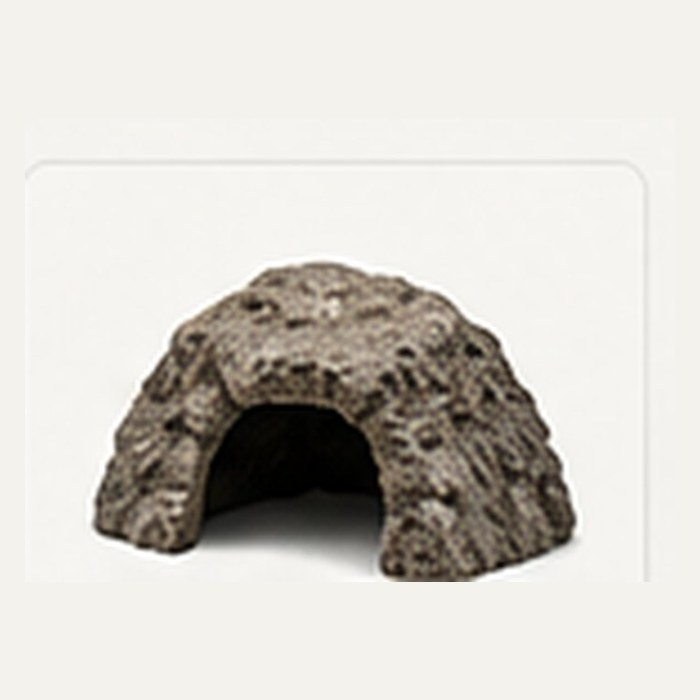
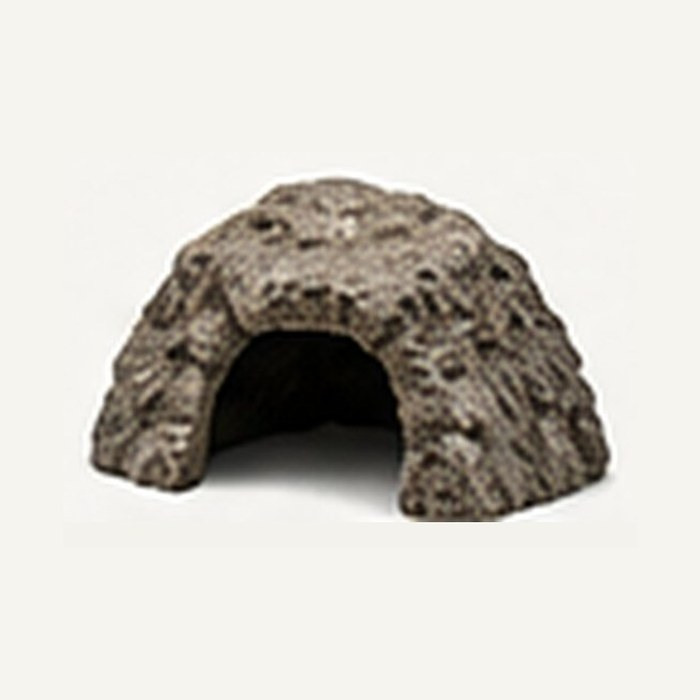
Add files via upload

Changed region(s): [[0.12, 0.24, 0.87, 0.84]]

diff --git a/assets/css/style.css b/assets/css/style.css
@@ -1,1 +1,1 @@
-:root{--bg:#07110d;--panel:#0d1c15;--panel2:#12251b;--cream:#f4f0e7;--muted:#a9b8ad;--green:#8bd44b;--green2:#3c9f45;--gold:#d7aa55;--line:rgba(255,255,255,.1);--shadow:0 20px 60px rgba(0,0,0,.35);--radius:22px}*{box-sizing:border-box}html{scroll-behavior:smooth}body{margin:0;background:#f5f4ef;color:#162019;font-family:Inter,ui-sans-serif,system-ui,-apple-system,Segoe UI,Roboto,Arial,sans-serif}.topbar{background:#06100b;color:#dfe9e1;padding:9px 5%;font-size:12px;display:flex;justify-content:center;gap:24px;letter-spacing:.02em}.topbar span{opacity:.9}.topbar b{color:#a6dc67}.header{position:sticky;top:0;z-index:50;background:rgba(5,15,10,.96);backdrop-filter:blur(12px);color:#fff;border-bottom:1px solid rgba(255,255,255,.08)}.header-main{display:grid;grid-template-columns:210px 1fr auto;gap:28px;align-items:center;padding:18px 5%}.logo{display:flex;align-items:center;gap:12px;color:white;text-decoration:none;font-weight:900;letter-spacing:.12em}.logo img{width:54px;height:54px;border-radius:50%;object-fit:cover}.logo strong{font-size:22px}.logo small{display:block;font-size:8px;letter-spacing:.16em;color:#9bd362;margin-top:2px}.search{max-width:650px;margin:auto;width:100%;position:relative}.search input{width:100%;background:#0c1812;border:1px solid #294033;color:#fff;padding:13px 44px 13px 18px;border-radius:999px;outline:none}.search button{position:absolute;right:6px;top:5px;border:0;background:transparent;color:#d9e7dc;font-size:18px;cursor:pointer}.actions{display:flex;gap:8px}.icon-btn{width:42px;height:42px;border:1px solid #294033;background:#0c1812;color:#fff;border-radius:50%;cursor:pointer}.nav{display:flex;justify-content:center;gap:28px;padding:0 5% 15px}.nav a{color:#dce7df;text-decoration:none;font-size:13px;font-weight:700}.nav a:hover{color:var(--green)}.hero{min-height:650px;background:#07120c;color:white;position:relative;overflow:hidden}.hero:before{content:"";position:absolute;inset:0;background:linear-gradient(90deg,rgba(4,14,8,.96) 0%,rgba(4,14,8,.75) 38%,rgba(4,14,8,.25) 65%,rgba(4,14,8,.72)),url('../images/hero/hero-habitat.jpg') center/cover no-repeat}.hero-content{position:relative;z-index:1;max-width:1250px;margin:auto;padding:125px 5% 90px}.eyebrow{color:#b8e86c;text-transform:uppercase;letter-spacing:.18em;font-weight:800;font-size:12px}.hero h1{font-family:Georgia,serif;font-size:clamp(48px,7vw,88px);line-height:.96;max-width:780px;margin:18px 0}.hero h1 em{color:#9ddd55;font-style:normal}.hero p{max-width:650px;color:#d5ded7;font-size:18px;line-height:1.7}.btn{display:inline-flex;align-items:center;gap:10px;padding:14px 22px;border-radius:999px;text-decoration:none;font-weight:800;border:1px solid transparent;cursor:pointer}.btn-primary{background:linear-gradient(135deg,#a9e05b,#4ca54b);color:#061007}.btn-ghost{border-color:rgba(255,255,255,.25);color:white;background:rgba(255,255,255,.05)}.hero-actions{display:flex;gap:12px;margin-top:28px}.trust{position:relative;z-index:1;max-width:1250px;margin:-40px auto 0;padding:0 5%;display:grid;grid-template-columns:repeat(4,1fr);gap:12px}.trust-card{background:rgba(10,26,17,.92);border:1px solid rgba(255,255,255,.12);color:#fff;padding:18px;border-radius:18px;box-shadow:var(--shadow)}.trust-card b{display:block;font-size:13px}.trust-card span{color:#a9b8ad;font-size:11px}.section{padding:90px 5%;max-width:1400px;margin:auto}.section-head{display:flex;align-items:end;justify-content:space-between;gap:20px;margin-bottom:30px}.section h2{font-family:Georgia,serif;font-size:42px;margin:0}.section-head p{max-width:560px;color:#65736a;line-height:1.6}.category-grid{display:grid;grid-template-columns:repeat(4,1fr);gap:16px}.category{position:relative;aspect-ratio:1/1;min-height:0;border-radius:22px;overflow:hidden;background:#0c1a12;color:white;box-shadow:var(--shadow)}.category img{width:100%;height:100%;object-fit:cover;object-position:center;transition:.4s;display:block}.category:after{content:"";position:absolute;inset:0;background:linear-gradient(transparent 30%,rgba(0,0,0,.85))}.category:hover img{transform:scale(1.05)}.category-info{position:absolute;z-index:2;bottom:20px;left:20px}.category-info h3{margin:0 0 5px;font-size:18px}.category-info span{font-size:12px;color:#c9d6cc}.split-banner{max-width:1400px;margin:0 auto;padding:0 5%}.banner{min-height:360px;border-radius:28px;overflow:hidden;position:relative;background:url('../images/hero/chameleon-habitat.jpg') center/cover}.banner:after{content:"";position:absolute;inset:0;background:linear-gradient(90deg,rgba(5,16,10,.92),rgba(5,16,10,.35),rgba(5,16,10,.15))}.banner-content{position:relative;z-index:2;color:white;max-width:620px;padding:70px}.banner h2{font-family:Georgia,serif;font-size:48px;margin:12px 0}.products{display:grid;grid-template-columns:repeat(4,1fr);gap:18px}.product{background:#fff;border:1px solid #e4e7e1;border-radius:20px;overflow:hidden;box-shadow:0 10px 30px rgba(19,37,26,.06);transition:.25s;position:relative}.product:hover{transform:translateY(-5px);box-shadow:0 18px 45px rgba(19,37,26,.12)}.product-media{aspect-ratio:1/1;height:auto;background:#f4f2ec;position:relative;padding:10px}.product-media img{width:100%;height:100%;object-fit:contain;display:block;border-radius:12px}.badge{position:absolute;top:14px;left:14px;background:#0a2516;color:#c8f38d;padding:7px 10px;border-radius:999px;font-size:10px;font-weight:900}.heart{position:absolute;right:14px;top:14px;width:36px;height:36px;border:0;border-radius:50%;background:rgba(255,255,255,.9);cursor:pointer}.product-info{padding:18px}.product-info .category-label{color:#6f7e74;font-size:11px;text-transform:uppercase;letter-spacing:.12em;font-weight:800}.product h3{font-size:17px;margin:7px 0}.rating{font-size:12px;color:#c79537}.price{font-size:20px;font-weight:900;margin-top:10px}.product-actions{display:flex;gap:8px;margin-top:14px}.add{flex:1;border:0;background:#103a21;color:#fff;padding:11px;border-radius:12px;font-weight:800;cursor:pointer}.learn{border:1px solid #d8ded8;background:white;border-radius:12px;padding:11px;cursor:pointer}.about{background:#09150e;color:white;max-width:none}.about-inner{max-width:1400px;margin:auto;padding:90px 5%;display:grid;grid-template-columns:1fr 1fr;gap:70px;align-items:center}.about h2{font-family:Georgia,serif;font-size:52px}.about p{color:#b5c2b9;line-height:1.8}.values{display:grid;grid-template-columns:repeat(3,1fr);gap:12px}.value{padding:20px;border:1px solid #243d2d;background:#0d2115;border-radius:18px}.value b{display:block;margin-bottom:7px}.value span{font-size:12px;color:#a9b8ad;line-height:1.6}.newsletter{background:#dcefc5;padding:55px 5%;text-align:center}.newsletter h2{font-family:Georgia,serif;font-size:38px;margin:0 0 10px}.newsletter p{color:#506253}.newsletter form{max-width:560px;margin:22px auto;display:flex;background:white;padding:5px;border-radius:999px;border:1px solid #cbd9c3}.newsletter input{flex:1;border:0;outline:0;padding:13px 16px;border-radius:999px}.newsletter button{border:0;background:#173b22;color:white;padding:12px 20px;border-radius:999px;font-weight:800}.footer{background:#050c08;color:#d8e2db;padding:55px 5% 25px}.footer-grid{max-width:1400px;margin:auto;display:grid;grid-template-columns:2fr repeat(3,1fr);gap:45px}.footer h3{margin-top:0}.footer a{display:block;color:#9eaea3;text-decoration:none;font-size:13px;margin:9px 0}.footer a:hover{color:#a9df62}.footer-bottom{max-width:1400px;margin:40px auto 0;padding-top:20px;border-top:1px solid #1e3024;color:#78877e;font-size:11px;display:flex;justify-content:space-between}.drawer{position:fixed;right:-430px;top:0;width:min(420px,100%);height:100vh;background:#fff;z-index:100;box-shadow:-20px 0 70px rgba(0,0,0,.3);transition:.3s;display:flex;flex-direction:column}.drawer.open{right:0}.drawer-head{padding:22px;border-bottom:1px solid #e5e8e4;display:flex;justify-content:space-between}.drawer-body{padding:20px;overflow:auto;flex:1}.cart-item{display:grid;grid-template-columns:75px 1fr auto;gap:12px;align-items:center;padding:14px 0;border-bottom:1px solid #e8ebe7}.cart-item img{width:75px;height:75px;object-fit:contain;border-radius:12px;background:#eef1eb}.cart-item h4{margin:0;font-size:13px}.cart-item p{margin:6px 0 0;color:#647268;font-size:12px}.remove{border:0;background:none;color:#a44;cursor:pointer}.drawer-foot{padding:20px;border-top:1px solid #e5e8e4}.total{display:flex;justify-content:space-between;font-size:18px;font-weight:900;margin-bottom:15px}.full{width:100%;justify-content:center}.modal{position:fixed;inset:0;background:rgba(0,0,0,.7);display:none;align-items:center;justify-content:center;z-index:110;padding:20px}.modal.show{display:flex}.modal-card{max-width:920px;width:100%;background:#fff;border-radius:25px;overflow:hidden;display:grid;grid-template-columns:1fr 1fr;position:relative}.modal-card img{width:100%;height:100%;min-height:460px;object-fit:contain;background:#f4f2ec;padding:18px}.modal-info{padding:40px}.modal-info h2{font-family:Georgia,serif;font-size:38px;margin:8px 0}.close{position:absolute;right:15px;top:15px;border:0;width:40px;height:40px;border-radius:50%;background:white;cursor:pointer;font-size:20px}.mobile-toggle{display:none}.empty{text-align:center;color:#748178;padding:40px}.toast{position:fixed;bottom:25px;left:50%;transform:translateX(-50%) translateY(30px);background:#0c2114;color:#fff;padding:13px 18px;border-radius:999px;opacity:0;pointer-events:none;transition:.3s;z-index:200}.toast.show{opacity:1;transform:translateX(-50%) translateY(0)}@media(max-width:1000px){.header-main{grid-template-columns:1fr auto}.search{grid-column:1/-1;grid-row:2}.nav{display:none}.mobile-toggle{display:block}.category-grid,.products{grid-template-columns:repeat(2,1fr)}.trust{grid-template-columns:repeat(2,1fr)}.about-inner{grid-template-columns:1fr}.footer-grid{grid-template-columns:1fr 1fr}}@media(max-width:620px){.topbar{gap:8px;font-size:10px;overflow:hidden;white-space:nowrap}.header-main{padding:13px 4%}.logo strong{font-size:17px}.logo img{width:44px;height:44px}.actions .icon-btn:nth-child(2){display:none}.hero{min-height:600px}.hero-content{padding:90px 5% 100px}.hero h1{font-size:50px}.hero p{font-size:15px}.hero-actions{flex-direction:column;align-items:flex-start}.trust{grid-template-columns:1fr;margin-top:-25px}.section{padding:65px 5%}.section h2{font-size:34px}.section-head{display:block}.category-grid,.products{grid-template-columns:1fr}.category{min-height:310px}.banner-content{padding:45px 28px}.banner h2{font-size:38px}.about h2{font-size:40px}.values{grid-template-columns:1fr}.footer-grid{grid-template-columns:1fr}.footer-bottom{display:block}.footer-bottom span{display:block;margin-top:8px}.modal-card{grid-template-columns:1fr}.modal-card img{min-height:280px;max-height:350px}.modal-info{padding:25px}}
+:root{--bg:#07110d;--panel:#0d1c15;--panel2:#12251b;--cream:#f4f0e7;--muted:#a9b8ad;--green:#8bd44b;--green2:#3c9f45;--gold:#d7aa55;--line:rgba(255,255,255,.1);--shadow:0 20px 60px rgba(0,0,0,.35);--radius:22px}*{box-sizing:border-box}html{scroll-behavior:smooth}body{margin:0;background:#f5f4ef;color:#162019;font-family:Inter,ui-sans-serif,system-ui,-apple-system,Segoe UI,Roboto,Arial,sans-serif}.topbar{background:#06100b;color:#dfe9e1;padding:9px 5%;font-size:12px;display:flex;justify-content:center;gap:24px;letter-spacing:.02em}.topbar span{opacity:.9}.topbar b{color:#a6dc67}.header{position:sticky;top:0;z-index:50;background:rgba(5,15,10,.96);backdrop-filter:blur(12px);color:#fff;border-bottom:1px solid rgba(255,255,255,.08)}.header-main{display:grid;grid-template-columns:210px 1fr auto;gap:28px;align-items:center;padding:18px 5%}.logo{display:flex;align-items:center;gap:12px;color:white;text-decoration:none;font-weight:900;letter-spacing:.12em}.logo img{width:54px;height:54px;border-radius:50%;object-fit:cover}.logo strong{font-size:22px}.logo small{display:block;font-size:8px;letter-spacing:.16em;color:#9bd362;margin-top:2px}.search{max-width:650px;margin:auto;width:100%;position:relative}.search input{width:100%;background:#0c1812;border:1px solid #294033;color:#fff;padding:13px 44px 13px 18px;border-radius:999px;outline:none}.search button{position:absolute;right:6px;top:5px;border:0;background:transparent;color:#d9e7dc;font-size:18px;cursor:pointer}.actions{display:flex;gap:8px}.icon-btn{width:42px;height:42px;border:1px solid #294033;background:#0c1812;color:#fff;border-radius:50%;cursor:pointer}.nav{display:flex;justify-content:center;gap:28px;padding:0 5% 15px}.nav a{color:#dce7df;text-decoration:none;font-size:13px;font-weight:700}.nav a:hover{color:var(--green)}.hero{min-height:650px;background:#07120c;color:white;position:relative;overflow:hidden}.hero:before{content:"";position:absolute;inset:0;background:linear-gradient(90deg,rgba(4,14,8,.96) 0%,rgba(4,14,8,.75) 38%,rgba(4,14,8,.25) 65%,rgba(4,14,8,.72)),url('../images/hero/hero-habitat.jpg') center/cover no-repeat}.hero-content{position:relative;z-index:1;max-width:1250px;margin:auto;padding:125px 5% 90px}.eyebrow{color:#b8e86c;text-transform:uppercase;letter-spacing:.18em;font-weight:800;font-size:12px}.hero h1{font-family:Georgia,serif;font-size:clamp(48px,7vw,88px);line-height:.96;max-width:780px;margin:18px 0}.hero h1 em{color:#9ddd55;font-style:normal}.hero p{max-width:650px;color:#d5ded7;font-size:18px;line-height:1.7}.btn{display:inline-flex;align-items:center;gap:10px;padding:14px 22px;border-radius:999px;text-decoration:none;font-weight:800;border:1px solid transparent;cursor:pointer}.btn-primary{background:linear-gradient(135deg,#a9e05b,#4ca54b);color:#061007}.btn-ghost{border-color:rgba(255,255,255,.25);color:white;background:rgba(255,255,255,.05)}.hero-actions{display:flex;gap:12px;margin-top:28px}.trust{position:relative;z-index:1;max-width:1250px;margin:-40px auto 0;padding:0 5%;display:grid;grid-template-columns:repeat(4,1fr);gap:12px}.trust-card{background:rgba(10,26,17,.92);border:1px solid rgba(255,255,255,.12);color:#fff;padding:18px;border-radius:18px;box-shadow:var(--shadow)}.trust-card b{display:block;font-size:13px}.trust-card span{color:#a9b8ad;font-size:11px}.section{padding:90px 5%;max-width:1400px;margin:auto}.section-head{display:flex;align-items:end;justify-content:space-between;gap:20px;margin-bottom:30px}.section h2{font-family:Georgia,serif;font-size:42px;margin:0}.section-head p{max-width:560px;color:#65736a;line-height:1.6}.category-grid{display:grid;grid-template-columns:repeat(4,1fr);gap:16px}.category{position:relative;aspect-ratio:1/1;min-height:0;border-radius:22px;overflow:hidden;background:#0c1a12;color:white;box-shadow:var(--shadow)}.category img{width:100%;height:100%;object-fit:cover;object-position:center;transition:.4s;display:block}.category:after{content:"";position:absolute;inset:0;background:linear-gradient(transparent 30%,rgba(0,0,0,.85))}.category:hover img{transform:scale(1.05)}.category-info{position:absolute;z-index:2;bottom:20px;left:20px}.category-info h3{margin:0 0 5px;font-size:18px}.category-info span{font-size:12px;color:#c9d6cc}.split-banner{max-width:1400px;margin:0 auto;padding:0 5%}.banner{min-height:360px;border-radius:28px;overflow:hidden;position:relative;background:url('../images/hero/chameleon-habitat.jpg') center/cover}.banner:after{content:"";position:absolute;inset:0;background:linear-gradient(90deg,rgba(5,16,10,.92),rgba(5,16,10,.35),rgba(5,16,10,.15))}.banner-content{position:relative;z-index:2;color:white;max-width:620px;padding:70px}.banner h2{font-family:Georgia,serif;font-size:48px;margin:12px 0}.products{display:grid;grid-template-columns:repeat(4,1fr);gap:18px}.product{background:#fff;border:1px solid #e4e7e1;border-radius:20px;overflow:hidden;box-shadow:0 10px 30px rgba(19,37,26,.06);transition:.25s;position:relative}.product:hover{transform:translateY(-5px);box-shadow:0 18px 45px rgba(19,37,26,.12)}.product-media{aspect-ratio:1/1;height:auto;background:#f4f2ec;position:relative;padding:14px;display:flex;align-items:center;justify-content:center;overflow:hidden}.product-media img{width:100%;height:100%;object-fit:contain;object-position:center;display:block;border-radius:12px}.badge{position:absolute;top:14px;left:14px;background:#0a2516;color:#c8f38d;padding:7px 10px;border-radius:999px;font-size:10px;font-weight:900}.heart{position:absolute;right:14px;top:14px;width:36px;height:36px;border:0;border-radius:50%;background:rgba(255,255,255,.9);cursor:pointer}.product-info{padding:18px}.product-info .category-label{color:#6f7e74;font-size:11px;text-transform:uppercase;letter-spacing:.12em;font-weight:800}.product h3{font-size:17px;margin:7px 0}.rating{font-size:12px;color:#c79537}.price{font-size:20px;font-weight:900;margin-top:10px}.product-actions{display:flex;gap:8px;margin-top:14px}.add{flex:1;border:0;background:#103a21;color:#fff;padding:11px;border-radius:12px;font-weight:800;cursor:pointer}.learn{border:1px solid #d8ded8;background:white;border-radius:12px;padding:11px;cursor:pointer}.about{background:#09150e;color:white;max-width:none}.about-inner{max-width:1400px;margin:auto;padding:90px 5%;display:grid;grid-template-columns:1fr 1fr;gap:70px;align-items:center}.about h2{font-family:Georgia,serif;font-size:52px}.about p{color:#b5c2b9;line-height:1.8}.values{display:grid;grid-template-columns:repeat(3,1fr);gap:12px}.value{padding:20px;border:1px solid #243d2d;background:#0d2115;border-radius:18px}.value b{display:block;margin-bottom:7px}.value span{font-size:12px;color:#a9b8ad;line-height:1.6}.newsletter{background:#dcefc5;padding:55px 5%;text-align:center}.newsletter h2{font-family:Georgia,serif;font-size:38px;margin:0 0 10px}.newsletter p{color:#506253}.newsletter form{max-width:560px;margin:22px auto;display:flex;background:white;padding:5px;border-radius:999px;border:1px solid #cbd9c3}.newsletter input{flex:1;border:0;outline:0;padding:13px 16px;border-radius:999px}.newsletter button{border:0;background:#173b22;color:white;padding:12px 20px;border-radius:999px;font-weight:800}.footer{background:#050c08;color:#d8e2db;padding:55px 5% 25px}.footer-grid{max-width:1400px;margin:auto;display:grid;grid-template-columns:2fr repeat(3,1fr);gap:45px}.footer h3{margin-top:0}.footer a{display:block;color:#9eaea3;text-decoration:none;font-size:13px;margin:9px 0}.footer a:hover{color:#a9df62}.footer-bottom{max-width:1400px;margin:40px auto 0;padding-top:20px;border-top:1px solid #1e3024;color:#78877e;font-size:11px;display:flex;justify-content:space-between}.drawer{position:fixed;right:-430px;top:0;width:min(420px,100%);height:100vh;background:#fff;z-index:100;box-shadow:-20px 0 70px rgba(0,0,0,.3);transition:.3s;display:flex;flex-direction:column}.drawer.open{right:0}.drawer-head{padding:22px;border-bottom:1px solid #e5e8e4;display:flex;justify-content:space-between}.drawer-body{padding:20px;overflow:auto;flex:1}.cart-item{display:grid;grid-template-columns:75px 1fr auto;gap:12px;align-items:center;padding:14px 0;border-bottom:1px solid #e8ebe7}.cart-item img{width:75px;height:75px;object-fit:contain;border-radius:12px;background:#eef1eb}.cart-item h4{margin:0;font-size:13px}.cart-item p{margin:6px 0 0;color:#647268;font-size:12px}.remove{border:0;background:none;color:#a44;cursor:pointer}.drawer-foot{padding:20px;border-top:1px solid #e5e8e4}.total{display:flex;justify-content:space-between;font-size:18px;font-weight:900;margin-bottom:15px}.full{width:100%;justify-content:center}.modal{position:fixed;inset:0;background:rgba(0,0,0,.7);display:none;align-items:center;justify-content:center;z-index:110;padding:20px}.modal.show{display:flex}.modal-card{max-width:920px;width:100%;background:#fff;border-radius:25px;overflow:hidden;display:grid;grid-template-columns:1fr 1fr;position:relative}.modal-card img{width:100%;height:100%;min-height:460px;object-fit:contain;background:#f4f2ec;padding:18px}.modal-info{padding:40px}.modal-info h2{font-family:Georgia,serif;font-size:38px;margin:8px 0}.close{position:absolute;right:15px;top:15px;border:0;width:40px;height:40px;border-radius:50%;background:white;cursor:pointer;font-size:20px}.mobile-toggle{display:none}.empty{text-align:center;color:#748178;padding:40px}.toast{position:fixed;bottom:25px;left:50%;transform:translateX(-50%) translateY(30px);background:#0c2114;color:#fff;padding:13px 18px;border-radius:999px;opacity:0;pointer-events:none;transition:.3s;z-index:200}.toast.show{opacity:1;transform:translateX(-50%) translateY(0)}@media(max-width:1000px){.header-main{grid-template-columns:1fr auto}.search{grid-column:1/-1;grid-row:2}.nav{display:none}.mobile-toggle{display:block}.category-grid,.products{grid-template-columns:repeat(2,1fr)}.trust{grid-template-columns:repeat(2,1fr)}.about-inner{grid-template-columns:1fr}.footer-grid{grid-template-columns:1fr 1fr}}@media(max-width:620px){.topbar{gap:8px;font-size:10px;overflow:hidden;white-space:nowrap}.header-main{padding:13px 4%}.logo strong{font-size:17px}.logo img{width:44px;height:44px}.actions .icon-btn:nth-child(2){display:none}.hero{min-height:600px}.hero-content{padding:90px 5% 100px}.hero h1{font-size:50px}.hero p{font-size:15px}.hero-actions{flex-direction:column;align-items:flex-start}.trust{grid-template-columns:1fr;margin-top:-25px}.section{padding:65px 5%}.section h2{font-size:34px}.section-head{display:block}.category-grid,.products{grid-template-columns:1fr}.category{min-height:310px}.banner-content{padding:45px 28px}.banner h2{font-size:38px}.about h2{font-size:40px}.values{grid-template-columns:1fr}.footer-grid{grid-template-columns:1fr}.footer-bottom{display:block}.footer-bottom span{display:block;margin-top:8px}.modal-card{grid-template-columns:1fr}.modal-card img{min-height:280px;max-height:350px}.modal-info{padding:25px}}

diff --git a/assets/js/script.js b/assets/js/script.js
@@ -13,11 +13,11 @@ const products=[
 {id:12,name:'Habitat Hide & Branch Set',cat:'Natural Decor',price:39.99,img:'assets/images/products/decor.jpg',desc:'A mixed natural-texture decor concept combining climbing and visual enrichment elements.'}
 ];
 const cats=[
-['Terrariums & Enclosures','terrarium.jpg','Build the foundation'],['Lighting & Heating','lighting.jpg','Shape the climate'],['Natural Decor','decor.jpg','Bring nature in'],['Substrates','substrate.jpg','Create the base'],['Hides & Shelter','hide.jpg','Add safe spaces'],['Feeding Accessories','feeding.jpg','Simplify feeding'],['Climate & Monitoring','monitor.jpg','Track conditions'],['Water & Humidity','water.jpg','Manage hydration']];
+['Terrariums & Enclosures','terrarium-premium.jpg','Build the foundation'],['Lighting & Heating','uvb-lamp.jpg','Shape the climate'],['Natural Decor','cork-bark.jpg','Bring nature in'],['Substrates','substrate.jpg','Create the base'],['Hides & Shelter','rock-hide.jpg','Add safe spaces'],['Feeding Accessories','feeding.jpg','Simplify feeding'],['Climate & Monitoring','digital-monitor.jpg','Track conditions'],['Water & Humidity','water.jpg','Manage hydration']];
 let cart=JSON.parse(localStorage.getItem('terraviaCart')||'[]');
 const $=s=>document.querySelector(s);
-function renderCats(){ $('#categoryGrid').innerHTML=cats.map(c=>`<a class="category" href="#products" data-cat="${c[0]}"><img src="assets/images/products/${c[1]}" alt="${c[0]}"><div class="category-info"><h3>${c[0]}</h3><span>${c[2]} →</span></div></a>`).join(''); document.querySelectorAll('.category').forEach(x=>x.onclick=e=>{e.preventDefault(); renderProducts(x.dataset.cat); location.hash='products';}); }
-function renderProducts(filter=''){let list=filter?products.filter(p=>p.cat===filter):products; $('#productGrid').innerHTML=list.map(p=>`<article class="product"><div class="product-media"><span class="badge">Featured</span><button class="heart" data-heart="${p.id}">♡</button><img src="${p.img}" alt="${p.name}"></div><div class="product-info"><div class="category-label">${p.cat}</div><h3>${p.name}</h3><div class="rating">★★★★★ <span style="color:#748178">(24)</span></div><div class="price">$${p.price.toFixed(2)}</div><div class="product-actions"><button class="add" data-add="${p.id}">Add to bag</button><button class="learn" data-view="${p.id}">View</button></div></div></article>`).join(''); document.querySelectorAll('[data-add]').forEach(b=>b.onclick=()=>add(+b.dataset.add)); document.querySelectorAll('[data-view]').forEach(b=>b.onclick=()=>view(+b.dataset.view)); document.querySelectorAll('[data-heart]').forEach(b=>b.onclick=()=>{b.textContent=b.textContent==='♡'?'♥':'♡';});}
+function renderCats(){ $('#categoryGrid').innerHTML=cats.map(c=>`<a class="category" href="#products" data-cat="${c[0]}"><img src="assets/images/products/${c[1]}" alt="${c[0]}" loading="lazy" decoding="async"><div class="category-info"><h3>${c[0]}</h3><span>${c[2]} →</span></div></a>`).join(''); document.querySelectorAll('.category').forEach(x=>x.onclick=e=>{e.preventDefault(); renderProducts(x.dataset.cat); location.hash='products';}); }
+function renderProducts(filter=''){let list=filter?products.filter(p=>p.cat===filter):products; $('#productGrid').innerHTML=list.map(p=>`<article class="product"><div class="product-media"><span class="badge">Featured</span><button class="heart" data-heart="${p.id}">♡</button><img src="${p.img}" alt="${p.name}" loading="lazy" decoding="async"></div><div class="product-info"><div class="category-label">${p.cat}</div><h3>${p.name}</h3><div class="rating">★★★★★ <span style="color:#748178">(24)</span></div><div class="price">$${p.price.toFixed(2)}</div><div class="product-actions"><button class="add" data-add="${p.id}">Add to bag</button><button class="learn" data-view="${p.id}">View</button></div></div></article>`).join(''); document.querySelectorAll('[data-add]').forEach(b=>b.onclick=()=>add(+b.dataset.add)); document.querySelectorAll('[data-view]').forEach(b=>b.onclick=()=>view(+b.dataset.view)); document.querySelectorAll('[data-heart]').forEach(b=>b.onclick=()=>{b.textContent=b.textContent==='♡'?'♥':'♡';});}
 function add(id){let p=products.find(x=>x.id===id);let i=cart.find(x=>x.id===id);if(i)i.qty++;else cart.push({...p,qty:1});save();toast(`${p.name} added to your bag.`);openCart();}
 function save(){localStorage.setItem('terraviaCart',JSON.stringify(cart));renderCart();}
 function renderCart(){if(!cart.length){$('#cartBody').innerHTML='<div class="empty">Your bag is waiting for its first habitat essential.</div>';$('#cartTotal').textContent='$0.00';return;}$('#cartBody').innerHTML=cart.map(i=>`<div class="cart-item"><img src="${i.img}" alt="${i.name}"><div><h4>${i.name}</h4><p>$${i.price.toFixed(2)} × ${i.qty}</p></div><button class="remove" data-remove="${i.id}">Remove</button></div>`).join('');document.querySelectorAll('[data-remove]').forEach(b=>b.onclick=()=>{cart=cart.filter(i=>i.id!==+b.dataset.remove);save();});$('#cartTotal').textContent='$'+cart.reduce((a,i)=>a+i.price*i.qty,0).toFixed(2);}

diff --git a/README.md b/README.md
@@ -90,3 +90,8 @@ TERRAVIA is a storefront concept. Reptile habitat requirements vary by species. 
 No open-source license has been applied at this stage.
 
 © 2026 TERRAVIA Reptile Co. All rights reserved.
+
+
+## Image Presentation Update
+
+The product and category image system uses consistent square assets, centered framing, preserved image paths, and responsive containment so products remain visually aligned across cards, cart, and detail views.

diff --git a/IMAGE-GUIDE.md b/IMAGE-GUIDE.md
@@ -1,0 +1,8 @@
+# TERRAVIA image map
+
+The image filenames and JavaScript paths are preserved from V1.
+The underlying JPG files were reframed into clean square assets so cards do not show split/composite crops.
+
+- Products: `assets/images/products/*.jpg`
+- Logo: `assets/images/logo/terravia-logo.jpg`
+- Hero assets: `assets/images/hero/*.jpg`
